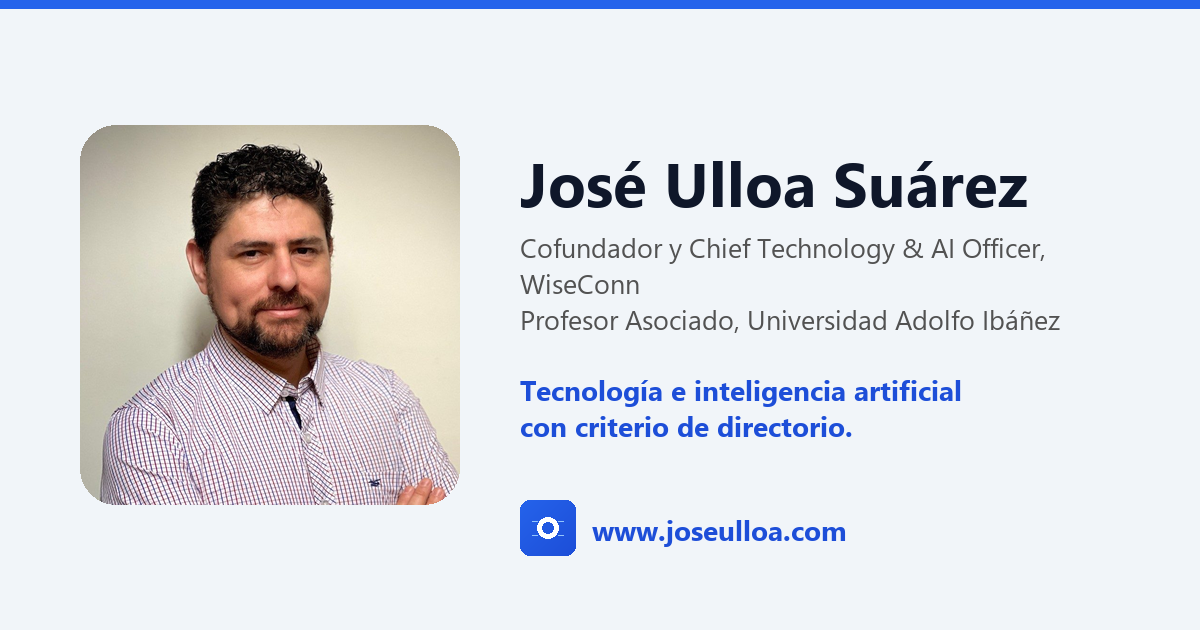
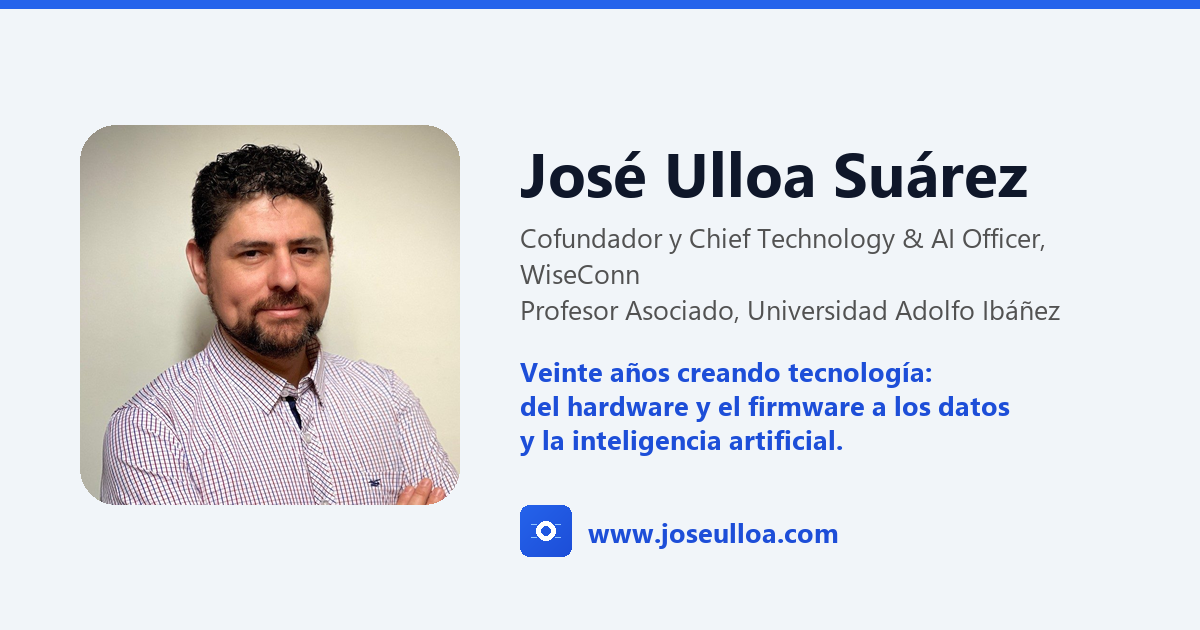
Titular sobre trayectoria tecnológica, sección de experiencia técnica y magíster completado

diff --git a/index.html b/index.html
@@ -3,8 +3,8 @@
 <head>
   <meta charset="utf-8">
   <meta name="viewport" content="width=device-width, initial-scale=1">
-  <title>José Ulloa Suárez — CTO & AI Officer, director y profesor de IA aplicada</title>
-  <meta name="description" content="Cofundador y Chief Technology & AI Officer de WiseConn, profesor asociado en la Universidad Adolfo Ibáñez y miembro de directorios. Tecnología, IA aplicada y gobernanza de datos para directorios.">
+  <title>José Ulloa Suárez — Tecnología, datos e inteligencia artificial aplicadas a la industria</title>
+  <meta name="description" content="Cofundador y Chief Technology & AI Officer de WiseConn y profesor asociado en la Universidad Adolfo Ibáñez. Veinte años creando tecnología para la industria: hardware, firmware, IoT, software, ciencia de datos e inteligencia artificial.">
   <meta name="author" content="José Ulloa Suárez">
   <meta name="robots" content="index, follow">
   <meta name="color-scheme" content="light">
@@ -21,16 +21,16 @@
   <meta property="profile:last_name" content="Ulloa Suárez">
   <meta property="og:url" content="https://www.joseulloa.com/">
   <meta property="og:site_name" content="José Ulloa Suárez">
-  <meta property="og:title" content="José Ulloa Suárez — CTO & AI Officer, director y profesor de IA aplicada">
-  <meta property="og:description" content="Cofundador y Chief Technology & AI Officer de WiseConn, profesor asociado en la Universidad Adolfo Ibáñez y miembro de directorios. Tecnología, IA aplicada y gobernanza de datos para directorios.">
+  <meta property="og:title" content="José Ulloa Suárez — Tecnología, datos e inteligencia artificial aplicadas a la industria">
+  <meta property="og:description" content="Cofundador y Chief Technology & AI Officer de WiseConn y profesor asociado en la Universidad Adolfo Ibáñez. Veinte años creando tecnología para la industria: hardware, firmware, IoT, software, ciencia de datos e inteligencia artificial.">
   <meta property="og:image" content="https://www.joseulloa.com/og-image.png">
   <meta property="og:image:width" content="1200">
   <meta property="og:image:height" content="630">
   <meta property="og:image:alt" content="José Ulloa Suárez, Chief Technology & AI Officer de WiseConn">
   <meta property="og:locale" content="es_CL">
   <meta name="twitter:card" content="summary_large_image">
-  <meta name="twitter:title" content="José Ulloa Suárez — CTO & AI Officer, director y profesor de IA aplicada">
-  <meta name="twitter:description" content="Tecnología, IA aplicada y gobernanza de datos para directorios.">
+  <meta name="twitter:title" content="José Ulloa Suárez — Tecnología, datos e inteligencia artificial aplicadas a la industria">
+  <meta name="twitter:description" content="Veinte años creando tecnología para la industria: hardware, firmware, IoT, software, ciencia de datos e inteligencia artificial.">
   <meta name="twitter:image" content="https://www.joseulloa.com/og-image.png">
 
   <script type="application/ld+json">
@@ -55,7 +55,7 @@
     "hasCredential": [
       { "@type": "EducationalOccupationalCredential", "name": "AWS Certified Solutions Architect" }
     ],
-    "knowsAbout": ["Inteligencia artificial", "Gobernanza de datos", "Internet de las cosas", "AgTech", "Gobierno corporativo", "Estrategia tecnológica"],
+    "knowsAbout": ["Inteligencia artificial", "Ciencia de datos", "Internet de las cosas", "Sistemas embebidos", "Firmware", "Arquitectura cloud", "AgTech", "Gobernanza de datos", "Gobierno corporativo", "Estrategia tecnológica"],
     "address": { "@type": "PostalAddress", "addressLocality": "Santiago", "addressCountry": "CL" },
     "sameAs": ["https://www.linkedin.com/in/julloas"]
   }
@@ -71,6 +71,7 @@
         <span>José Ulloa Suárez</span>
       </a>
       <nav aria-label="Secciones">
+        <a href="#experiencia">Experiencia</a>
         <a href="#aporte">Aporte</a>
         <a href="#trayectoria">Trayectoria</a>
         <a href="#formacion">Formación</a>
@@ -84,9 +85,9 @@
       <div class="container hero-grid">
         <div class="hero-text">
           <p class="eyebrow">José Ulloa Suárez · Santiago, Chile</p>
-          <h1>Tecnología e inteligencia artificial con criterio de directorio.</h1>
+          <h1>Veinte años creando tecnología: del hardware y el firmware a los datos y la inteligencia artificial.</h1>
           <p class="role">Cofundador y Chief Technology &amp; AI Officer, WiseConn · Profesor Asociado, Universidad Adolfo Ibáñez</p>
-          <p class="lead">Cofundé y escalé una empresa AgTech presente en cinco países. Hoy pongo esa experiencia —tecnología, IA aplicada y gobernanza de datos— al servicio de directorios y equipos ejecutivos.</p>
+          <p class="lead">Cofundé y escalé una empresa AgTech que hoy opera en cinco países, liderando desde el diseño de hardware y firmware hasta plataformas cloud, ciencia de datos e inteligencia artificial aplicadas a la industria. Esa experiencia la pongo al servicio de directorios, comités y equipos ejecutivos.</p>
           <div class="actions">
             <a class="btn btn-primary" href="&#109;&#97;&#105;&#108;&#116;&#111;&#58;&#106;&#117;&#108;&#108;&#111;&#97;&#115;&#64;&#103;&#109;&#97;&#105;&#108;&#46;&#99;&#111;&#109;">Conversemos</a>
             <a class="btn btn-secondary" href="https://www.linkedin.com/in/julloas" rel="me noopener" target="_blank">Ver perfil en LinkedIn</a>
@@ -105,11 +106,43 @@
     <section class="section" aria-labelledby="perfil-titulo">
       <div class="container narrow">
         <h2 id="perfil-titulo" class="visually-hidden">Perfil</h2>
-        <p class="profile">Ingeniero electrónico de formación y tecnólogo de oficio. En 2006 me sumé a WiseConn para resolver un problema concreto —regar mejor con menos agua— y esa empresa opera hoy en Chile, Estados Unidos, España, Italia y Australia. En paralelo enseño inteligencia artificial aplicada en la Universidad Adolfo Ibáñez y participo en directorios y comités donde la tecnología define la estrategia.</p>
+        <p class="profile">Ingeniero civil electrónico y magíster en ciencia de datos. En 2006 me sumé a WiseConn para resolver un problema concreto —regar mejor con menos agua— y esa empresa opera hoy en Chile, Estados Unidos, España, Italia y Australia, con más de 500.000 hectáreas gestionadas con tecnología que diseñamos desde el circuito hasta el modelo de datos. En paralelo enseño inteligencia artificial aplicada en la Universidad Adolfo Ibáñez y participo en directorios y comités donde la tecnología define la estrategia.</p>
       </div>
     </section>
 
-    <section id="aporte" class="section section-alt" aria-labelledby="aporte-titulo">
+    <section id="experiencia" class="section section-alt" aria-labelledby="experiencia-titulo">
+      <div class="container">
+        <h2 id="experiencia-titulo">Tecnología con aplicación en la industria</h2>
+        <div class="cards cards-3">
+          <article class="card">
+            <h3>Hardware y firmware</h3>
+            <p>Diseño de plataformas electrónicas y firmware para equipos de campo que operan por años con energía solar, en condiciones extremas y sin intervención.</p>
+          </article>
+          <article class="card">
+            <h3>IoT industrial y redes de sensores</h3>
+            <p>Redes inalámbricas de sensores y control con decenas de miles de nodos desplegados, integradas a sistemas de riego, bombeo y telemetría.</p>
+          </article>
+          <article class="card">
+            <h3>Software y plataformas cloud</h3>
+            <p>Arquitectura y operación de plataformas en AWS para telemetría, control y analítica a escala internacional, con foco en disponibilidad y seguridad.</p>
+          </article>
+          <article class="card">
+            <h3>Ciencia de datos</h3>
+            <p>Modelos predictivos sobre datos de campo, clima y energía: desde alertas tempranas de estrés hídrico hasta analítica del comportamiento de equipos.</p>
+          </article>
+          <article class="card">
+            <h3>Inteligencia artificial aplicada</h3>
+            <p>Incorporación de IA generativa y machine learning al producto y a la productividad interna, con políticas de gobernanza y uso responsable.</p>
+          </article>
+          <article class="card">
+            <h3>Equipos y producto</h3>
+            <p>Dirección de más de 20 ingenieros en firmware, hardware, software, diseño, datos e IA, llevando productos desde el prototipo a mercados de cuatro continentes.</p>
+          </article>
+        </div>
+      </div>
+    </section>
+
+    <section id="aporte" class="section" aria-labelledby="aporte-titulo">
       <div class="container">
         <h2 id="aporte-titulo">En qué aporto a un directorio</h2>
         <div class="cards">
@@ -133,7 +166,7 @@
       </div>
     </section>
 
-    <section id="trayectoria" class="section" aria-labelledby="trayectoria-titulo">
+    <section id="trayectoria" class="section section-alt" aria-labelledby="trayectoria-titulo">
       <div class="container narrow">
         <h2 id="trayectoria-titulo">Trayectoria</h2>
         <ol class="timeline">
@@ -161,14 +194,14 @@
       </div>
     </section>
 
-    <section id="formacion" class="section section-alt" aria-labelledby="formacion-titulo">
+    <section id="formacion" class="section" aria-labelledby="formacion-titulo">
       <div class="container narrow">
         <h2 id="formacion-titulo">Formación y reconocimientos</h2>
         <div class="two-col">
           <div>
             <h3 class="list-title">Formación</h3>
             <ul class="plain">
-              <li>Magíster en Ciencia de Datos, Pontificia Universidad Católica de Chile (2024 – 2026)</li>
+              <li>Magíster en Ciencia de Datos, Pontificia Universidad Católica de Chile (2026)</li>
               <li>Liderazgo en la Innovación, MIT Professional Education (2019)</li>
               <li>Diplomado en Gestión de Proyectos TI, Universidad Técnica Federico Santa María (2011)</li>
               <li>Ingeniero Civil Electrónico, Universidad Técnica Federico Santa María (2006)</li>

diff --git a/styles.css b/styles.css
@@ -68,6 +68,7 @@ p { margin: 0 0 1rem; }
 .profile { font-size: 1.15rem; color: var(--gray-700); margin: 0; }
 
 .cards { display: grid; gap: 1.25rem; grid-template-columns: repeat(auto-fit, minmax(240px, 1fr)); }
+@media (min-width: 900px) { .cards-3 { grid-template-columns: repeat(3, 1fr); } }
 .card { background: #fff; border: 1px solid var(--gray-200); border-radius: var(--radius-lg); padding: 1.5rem; box-shadow: var(--shadow-sm); }
 .card:hover { border-color: var(--blue-500); }
 .card p { margin: 0; color: var(--gray-700); }
